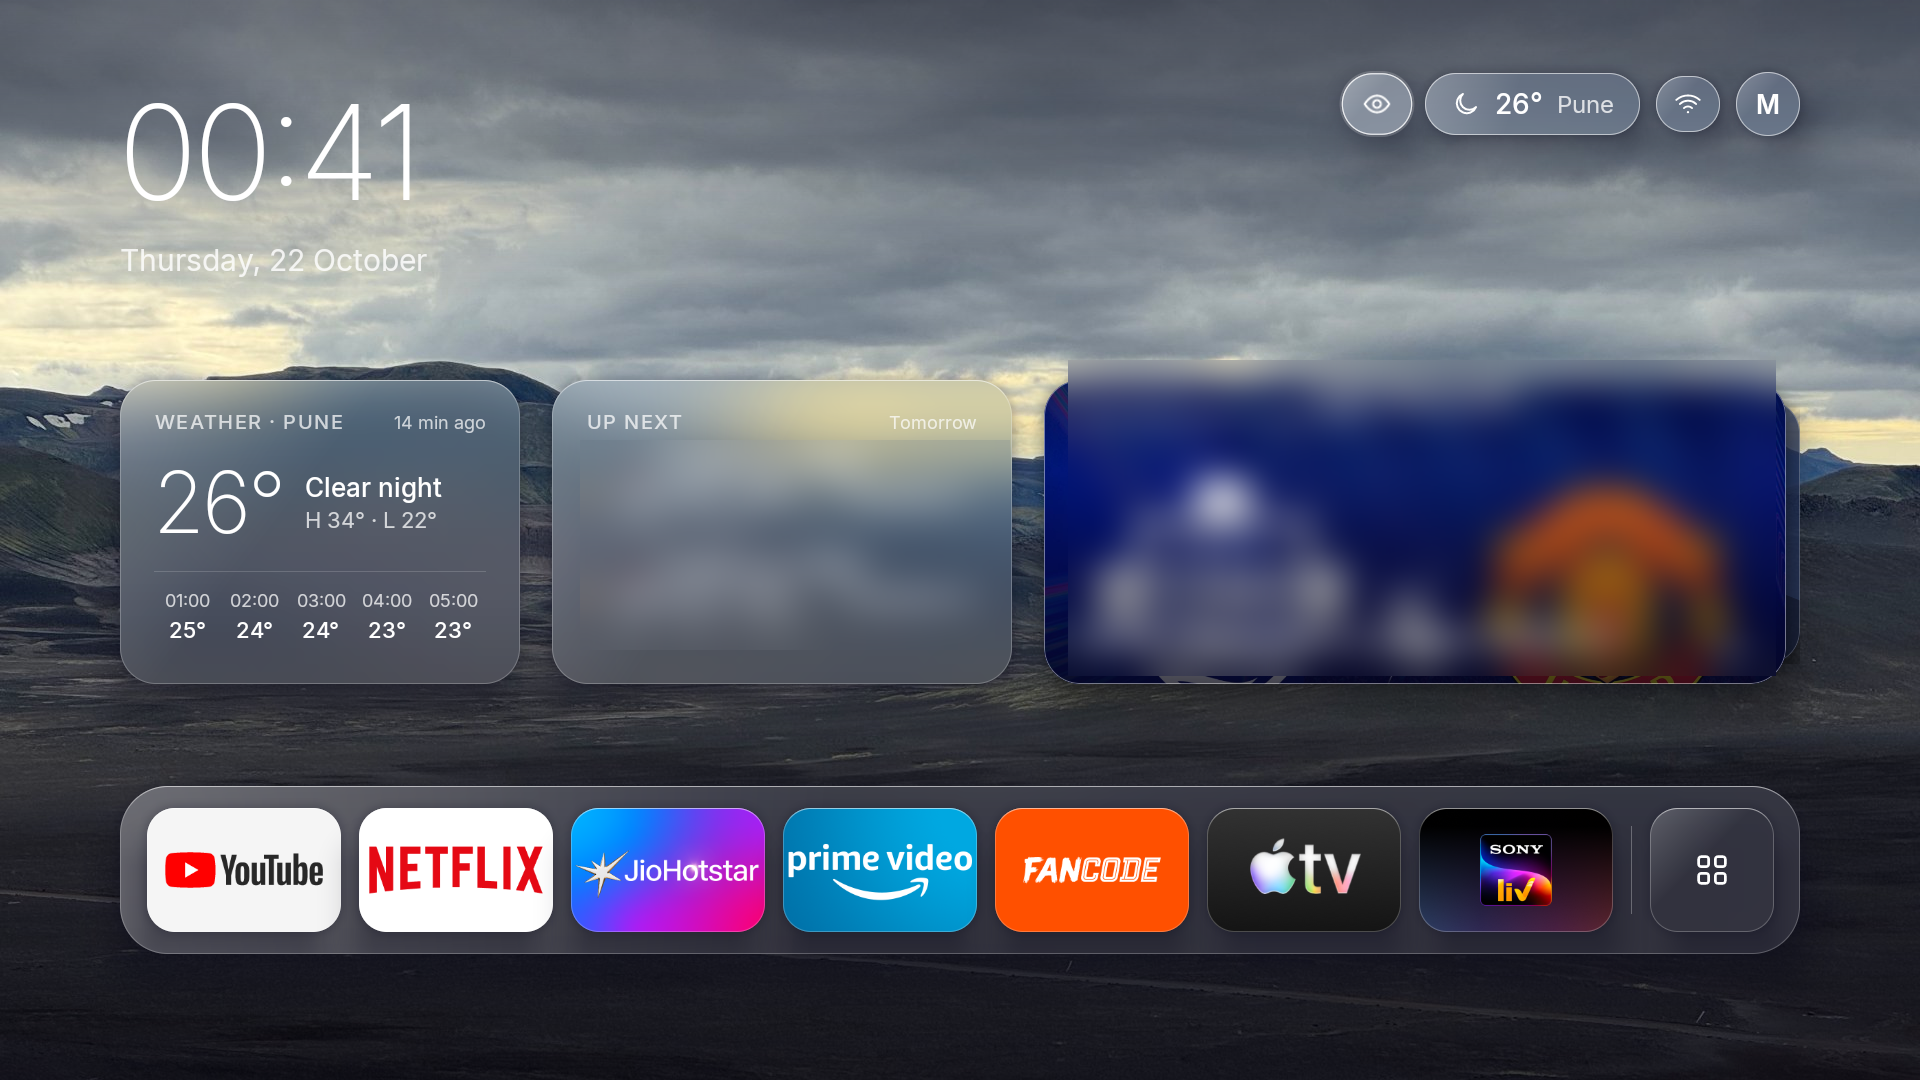
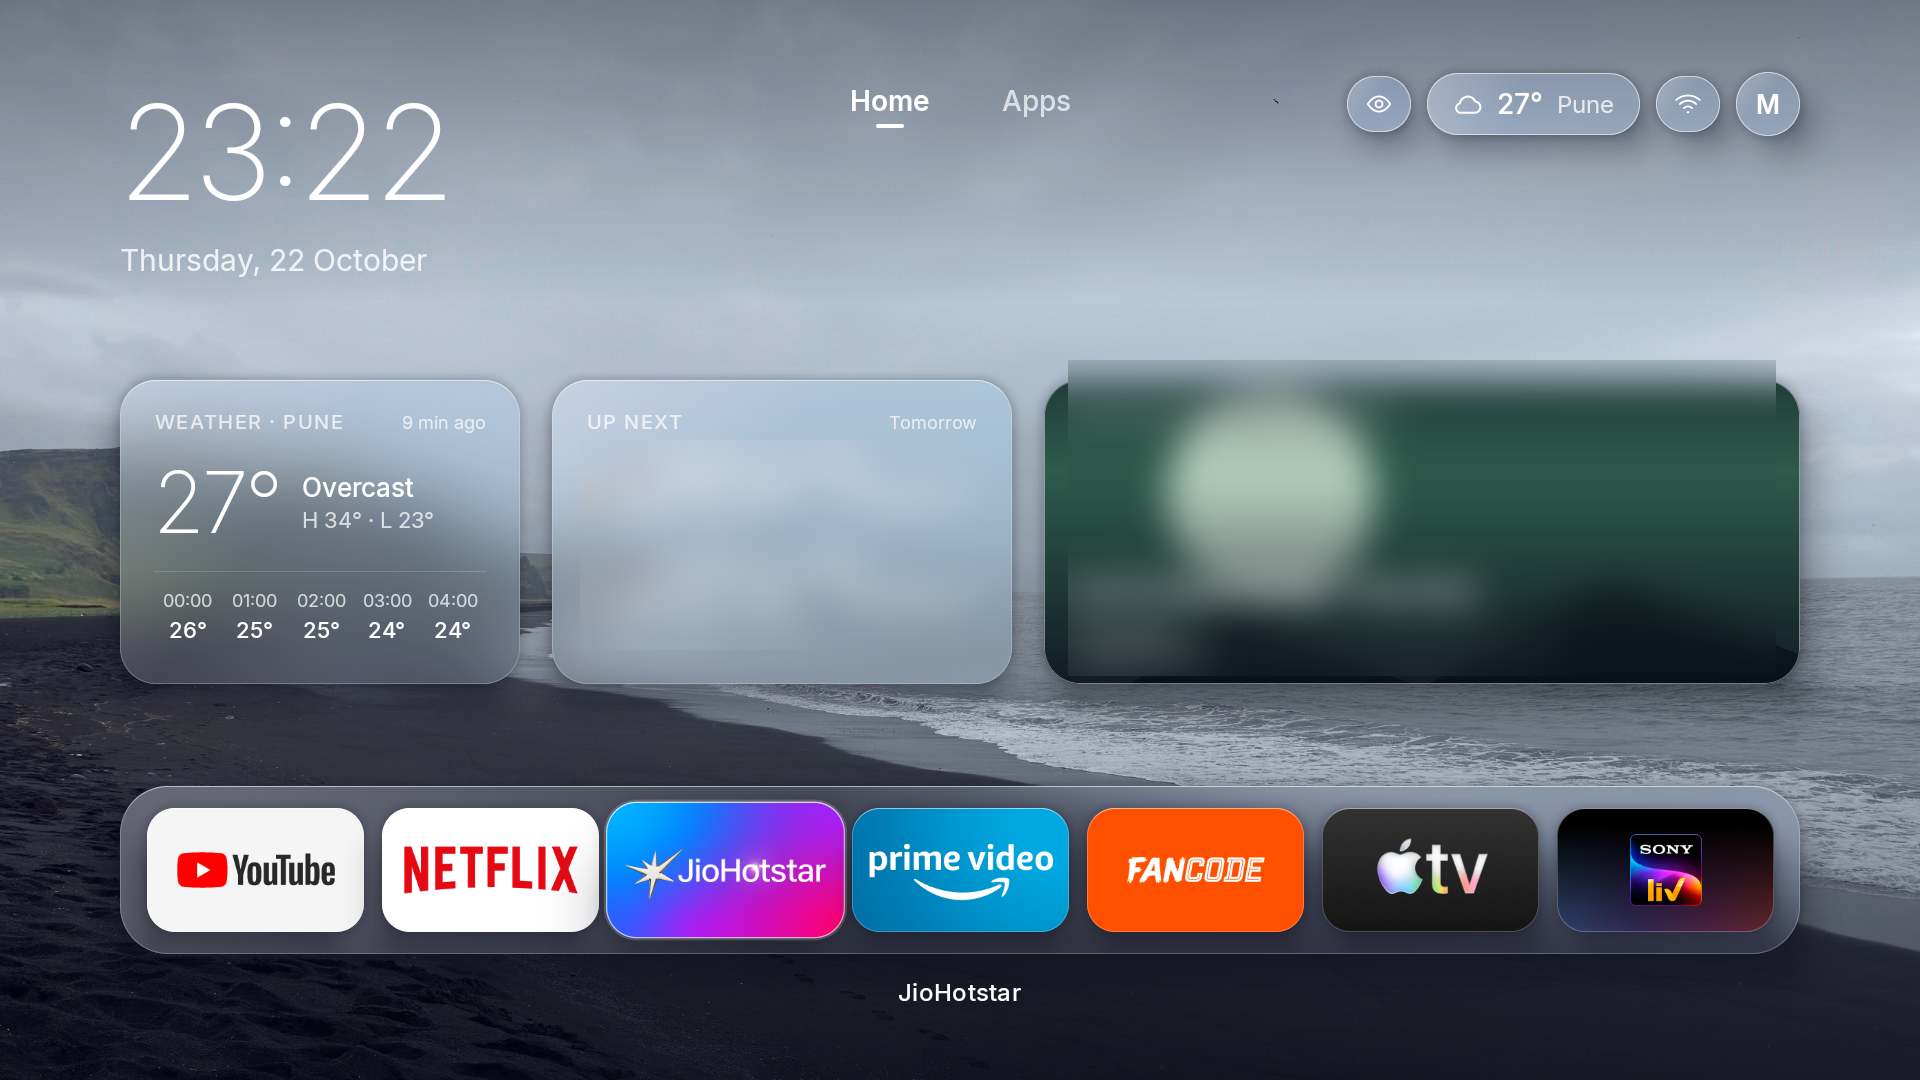
README: retake screenshots with the Home/Apps tabs
Home, Home with widgets hidden, the Apps tab (replaces All apps),
both halves of Quick settings and dock editing, re-captured on the TV
after the tabs change. Same blurring as before.

diff --git a/README.md b/README.md
@@ -65,7 +65,7 @@ Taken on the TV (1920×1080) with the owner's own photo as the wallpaper. Calend
 
 | | |
 |---|---|
-| ![Home with the widgets hidden](docs/screenshots/home-wallpaper.png)<br>Home with the widgets hidden (eye button) | ![All apps](docs/screenshots/all-apps.png)<br>All apps |
+| ![Home with the widgets hidden](docs/screenshots/home-wallpaper.png)<br>Home with the widgets hidden (eye button) | ![Apps tab](docs/screenshots/apps-tab.png)<br>Apps tab |
 | ![Weather](docs/screenshots/weather.png)<br>Weather, with the Indian AQI | ![Calendar](docs/screenshots/calendar.png)<br>Calendar |
 | ![Quick settings](docs/screenshots/quick-settings.png)<br>Quick settings: inputs and Wi-Fi | ![Quick settings, lower half](docs/screenshots/quick-settings-tv.png)<br>Quick settings: wallpapers and TV settings |
 | ![Dock editing](docs/screenshots/dock-edit.png)<br>Dock editing (hold OK on an app) | ![Ambient](docs/screenshots/ambient.png)<br>Ambient, after 3 minutes idle |
